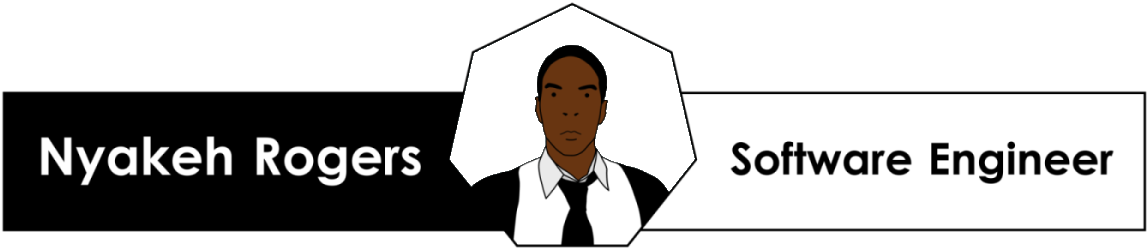
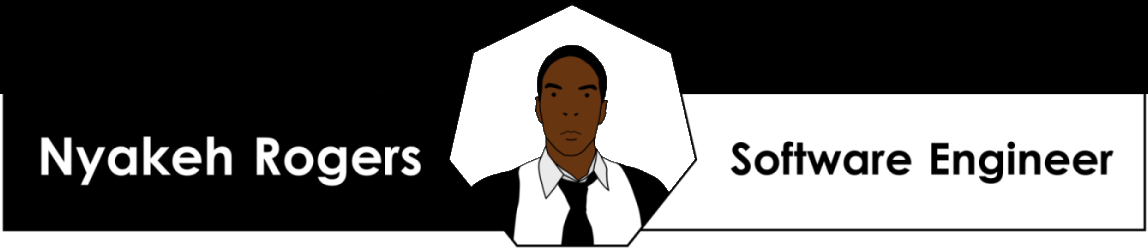
Centered content
Made see-through center banner top black.
Improved article spacing for large screen viewing.

diff --git a/Invisible/Index.html b/Invisible/Index.html
@@ -6,7 +6,7 @@
 </head>
 <body>
 <header id="title">
-    <img id="title_banner" src="img/faceBanners.png" alt="Nyakeh Rogers 2013"/>
+    <img id="title_banner" src="img/faceBannersInvisible.png" alt="Nyakeh Rogers 2013"/>
 </header>
 <div id="content">
 
@@ -17,12 +17,14 @@
     <p>Lorem ipsum dolor sit amet, consectetur adipiscing elit. Nulla pellentesque, diam sit amet semper pulvinar, justo nunc dapibus mauris, sed lobortis libero eros quis mi. Etiam viverra viverra sodales. Aenean eu erat at tellus suscipit hendrerit. Etiam dictum massa sed massa adipiscing, vitae volutpat urna sodales. Praesent euismod nunc metus, ut faucibus erat accumsan a. Pellentesque habitant morbi tristique senectus et netus et malesuada fames ac turpis egestas. Vestibulum interdum, turpis at tristique adipiscing, lacus lorem volutpat justo, sit amet pretium velit nisi ut lorem. Praesent nec hendrerit sapien, ultricies ornare augue. Sed fermentum nulla ut feugiat consequat. Vivamus nec mi in neque tristique dapibus.</p>
     </article>
 
-    <article id="skills">
-        <header>
-            <h1>Skills</h1>
-        </header>
-        <p>Phasellus quam neque, mattis sed auctor at, eleifend varius ipsum. Curabitur non eleifend orci. Pellentesque ac eleifend mi. Cum sociis natoque penatibus et magnis dis parturient montes, nascetur ridiculus mus. Donec iaculis arcu a vehicula pulvinar. Donec et est egestas, dapibus lectus a, dapibus lacus. Cras sit amet est nibh. Morbi ac odio sit amet enim aliquet imperdiet. Sed pellentesque nec quam ut porta. Nullam sed malesuada urna, eu congue mauris. Maecenas fringilla mattis lectus ac mattis. Phasellus quam neque, mattis sed auctor at, eleifend varius ipsum. Curabitur non eleifend orci. Pellentesque ac eleifend mi. Cum sociis natoque penatibus et magnis dis parturient montes, nascetur ridiculus mus. Donec iaculis arcu a vehicula pulvinar. Donec et est egestas, dapibus lectus a, dapibus lacus. Cras sit amet est nibh. Morbi ac odio sit amet enim aliquet imperdiet. Sed pellentesque nec quam ut porta. Nullam sed malesuada urna, eu congue mauris. Maecenas fringilla mattis lectus ac mattis.</p>
-    </article>
+    <div class="whiteBackground">
+        <article id="skills">
+            <header>
+                <h1>Skills</h1>
+            </header>
+            <p>Phasellus quam neque, mattis sed auctor at, eleifend varius ipsum. Curabitur non eleifend orci. Pellentesque ac eleifend mi. Cum sociis natoque penatibus et magnis dis parturient montes, nascetur ridiculus mus. Donec iaculis arcu a vehicula pulvinar. Donec et est egestas, dapibus lectus a, dapibus lacus. Cras sit amet est nibh. Morbi ac odio sit amet enim aliquet imperdiet. Sed pellentesque nec quam ut porta. Nullam sed malesuada urna, eu congue mauris. Maecenas fringilla mattis lectus ac mattis. Phasellus quam neque, mattis sed auctor at, eleifend varius ipsum. Curabitur non eleifend orci. Pellentesque ac eleifend mi. Cum sociis natoque penatibus et magnis dis parturient montes, nascetur ridiculus mus. Donec iaculis arcu a vehicula pulvinar. Donec et est egestas, dapibus lectus a, dapibus lacus. Cras sit amet est nibh. Morbi ac odio sit amet enim aliquet imperdiet. Sed pellentesque nec quam ut porta. Nullam sed malesuada urna, eu congue mauris. Maecenas fringilla mattis lectus ac mattis.</p>
+        </article>
+    </div>
 
     <article id="work">
         <header>
@@ -31,19 +33,21 @@
         <p>Donec consequat nulla quis tempus feugiat. Donec a dui et libero sollicitudin facilisis. Sed sapien lacus, venenatis quis bibendum iaculis, aliquet ut lectus. Sed feugiat, augue ac feugiat consequat, arcu tellus ullamcorper ipsum, eu sodales diam augue non orci. Praesent sed turpis odio. Maecenas quis metus magna. Sed ut lacus tortor. Donec egestas magna massa, sed eleifend justo ullamcorper ornare. Quisque placerat velit quis risus euismod, nec sagittis lorem mattis.</p>
     </article>
 
-    <article id="contact">
-        <header>
-            <h1>Contact</h1>
-        </header>
-        <p>Tings and stuff go here mate.</p>
-        <form id="contactform" method="post" action="">
-            <p><label>What's your name? </label><input type="text" class="input" name="name" id="form_name" placeholder="Nyakeh Rogers"></p>
-            <p><label>How should I contact you? </label><input type="text" class="input" name="contact" id="form_contact" placeholder="Email or Twitter?"></p> <!-- possibly use icons-->
-            <p><label>Subject? </label><input type="text" class="input" name="subject" id="form_subject" placeholder="Hi"></p> <!-- possibly use icons-->
-            <p><label>What would you like to say? </label><textarea class="input textarea" name="message" id="form_message" form="contactform" placeholder="I'd love to hear feedback, advise or job offers."></textarea></p>
-            <p><input type="submit" id="submitButton"> </p>
-        </form>
-    </article>
+    <div class="whiteBackground">
+        <article id="contact">
+            <header>
+                <h1>Contact</h1>
+            </header>
+            <p>Tings and stuff go here mate.</p>
+            <form id="contactform" method="post" action="">
+                <p><label>What's your name? </label><input type="text" class="input" name="name" id="form_name" placeholder="Nyakeh Rogers"></p>
+                <p><label>How should I contact you? </label><input type="text" class="input" name="contact" id="form_contact" placeholder="Email or Twitter?"></p> <!-- possibly use icons-->
+                <p><label>Subject? </label><input type="text" class="input" name="subject" id="form_subject" placeholder="Hi"></p> <!-- possibly use icons-->
+                <p><label>What would you like to say? </label><textarea class="input textarea" name="message" id="form_message" form="contactform" placeholder="I'd love to hear feedback, advise or job offers."></textarea></p>
+                <p><input type="submit" id="submitButton"> </p>
+            </form>
+        </article>
+    </div>
 </div>
 <footer>
     <p>By Nyakeh Rogers</p>

diff --git a/Invisible/style.css b/Invisible/style.css
@@ -24,10 +24,13 @@ body {
 }
 article {
     position: relative;
+    padding: 100px 210px;
     min-width: 500px;
-    padding: 100px 510px;
+    max-width: 1000px;
+    margin-left: auto;
+    margin-right: auto;
 }
-article#skills, #contact {
+.whiteBackground {
     background: #fff;
 }
 
